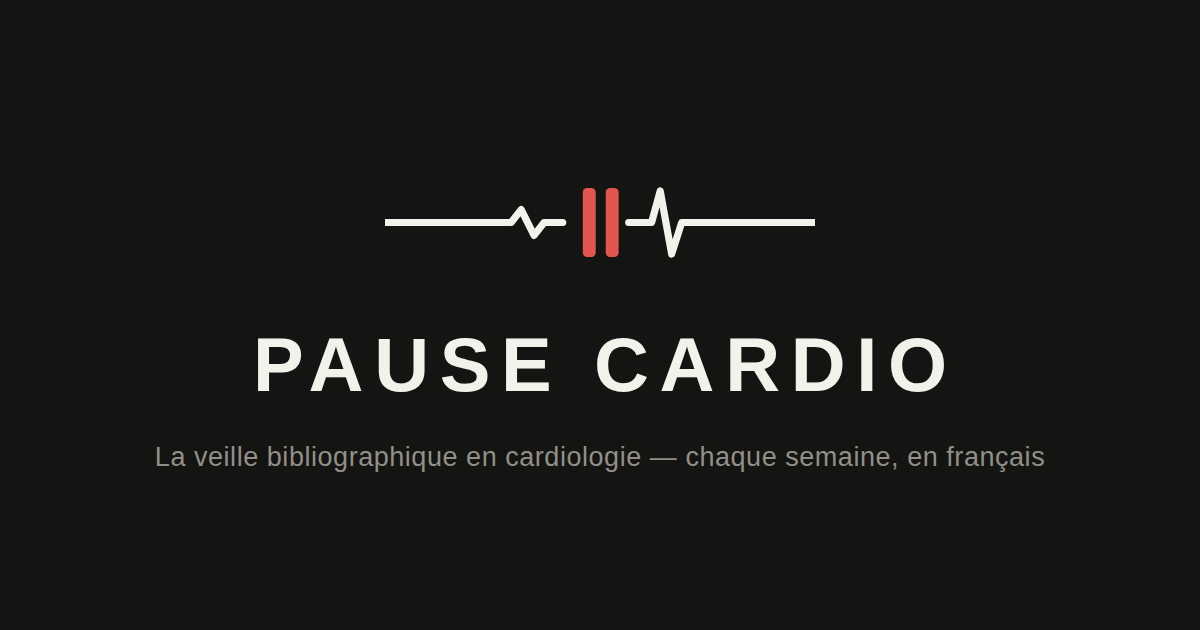
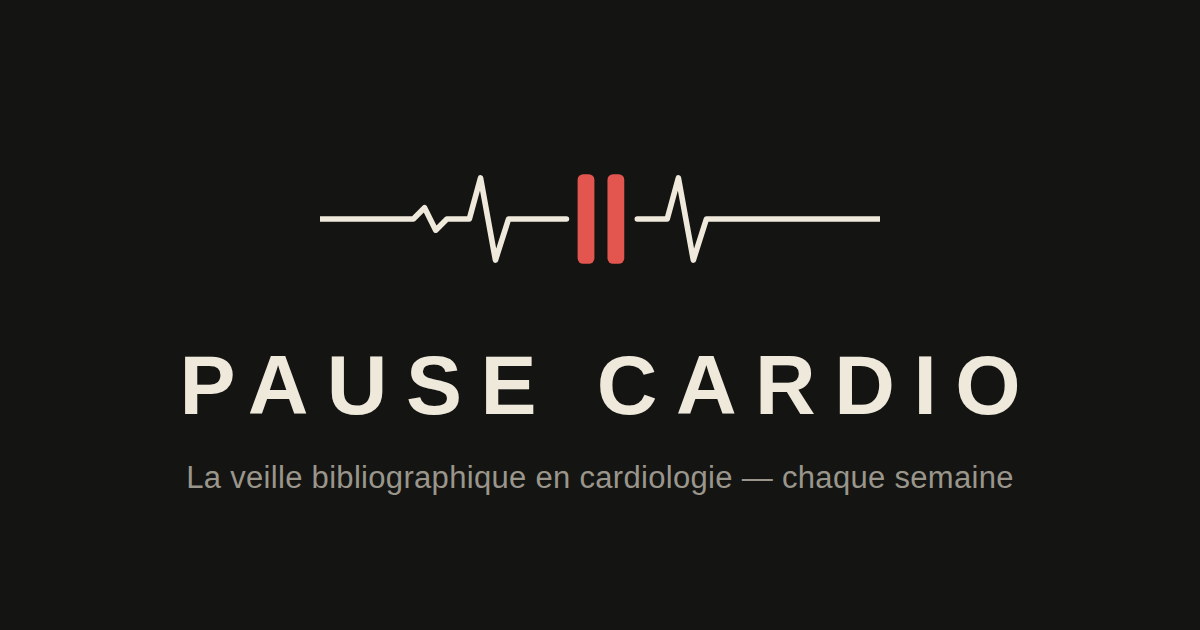
Carte de partage sans « en francais » ni mention du PDF
L'image de partage (icone/partage.png, apercu WhatsApp et reseaux) est
refabriquee avec la phrase « La veille bibliographique en cardiologie —
chaque semaine » ; les descriptions meta, Open Graph et Twitter perdent
« resumes en francais » et « bulletin PDF » (l'envoi se fait par mail),
et le pied de page est harmonise.

Image verifiee : 1200x630, dessin centre, memes couleurs de marque.

Claude-Session: https://claude.ai/code/session_01SPoLxQaPMetXnN7t3YS28e

diff --git a/index.html b/index.html
@@ -4,20 +4,20 @@
 <meta charset="UTF-8">
 <meta name="viewport" content="width=device-width, initial-scale=1.0">
 <title>Pause Cardio — veille bibliographique en cardiologie</title>
-<meta name="description" content="Veille bibliographique hebdomadaire en cardiologie : essais randomisés pivots, recommandations ESC et ACC/AHA, méta-analyses majeures, résumés en français avec fiches de lecture. Bulletin gratuit chaque samedi matin.">
+<meta name="description" content="Veille bibliographique hebdomadaire en cardiologie : essais randomisés pivots, recommandations ESC et ACC/AHA, méta-analyses majeures, avec fiches de lecture. Bulletin gratuit chaque samedi matin.">
 <link rel="canonical" href="https://pausecardio.fr/">
 <meta property="og:type" content="website">
 <meta property="og:site_name" content="Pause Cardio">
 <meta property="og:locale" content="fr_FR">
 <meta property="og:title" content="Pause Cardio — veille bibliographique en cardiologie">
-<meta property="og:description" content="Chaque semaine, les sorties qui comptent en cardiologie : essais pivots, recommandations, méta-analyses — résumés en français, fiches de lecture, bulletin PDF gratuit.">
+<meta property="og:description" content="Chaque semaine, les sorties qui comptent en cardiologie : essais pivots, recommandations, méta-analyses — avec fiches de lecture et bulletin gratuit chaque samedi.">
 <meta property="og:url" content="https://pausecardio.fr/">
 <meta property="og:image" content="https://pausecardio.fr/icone/partage.png">
 <meta property="og:image:width" content="1200">
 <meta property="og:image:height" content="630">
 <meta name="twitter:card" content="summary_large_image">
 <meta name="twitter:title" content="Pause Cardio — veille bibliographique en cardiologie">
-<meta name="twitter:description" content="Les sorties qui comptent en cardiologie, résumées en français chaque semaine. Bulletin gratuit le samedi matin.">
+<meta name="twitter:description" content="Les sorties qui comptent en cardiologie, chaque semaine. Bulletin gratuit le samedi matin.">
 <meta name="twitter:image" content="https://pausecardio.fr/icone/partage.png">
 <meta name="theme-color" content="#f9f9f7" media="(prefers-color-scheme: light)">
 <meta name="theme-color" content="#0d0d0d" media="(prefers-color-scheme: dark)">
@@ -3536,7 +3536,7 @@
   </div>
 
   <footer>
-    <b>Pause Cardio</b> est une veille bibliographique hebdomadaire et gratuite en cardiologie&nbsp;: essais randomis&eacute;s pivots, recommandations ESC et ACC/AHA, m&eacute;ta-analyses majeures, r&eacute;sum&eacute;s en fran&ccedil;ais avec fiches de lecture.<br>
+    <b>Pause Cardio</b> est une veille bibliographique hebdomadaire et gratuite en cardiologie&nbsp;: essais randomis&eacute;s pivots, recommandations ESC et ACC/AHA, m&eacute;ta-analyses majeures, avec fiches de lecture.<br>
     &Eacute;dition z&eacute;ro du 19/08/2026 — mise &agrave; jour automatique hebdomadaire &middot; Sources&nbsp;: NEJM, JAMA, JACC, EHJ, escardio.org, ACC.org, TCTMD, Cardio-online, HCPLive &middot; Contenus g&eacute;n&eacute;r&eacute;s par recherche documentaire assist&eacute;e : les fiches sont des synth&egrave;ses d&rsquo;aide &agrave; la veille, elles ne remplacent pas la lecture de l&rsquo;article original ni le jugement clinique.
   </footer>
 </div>
